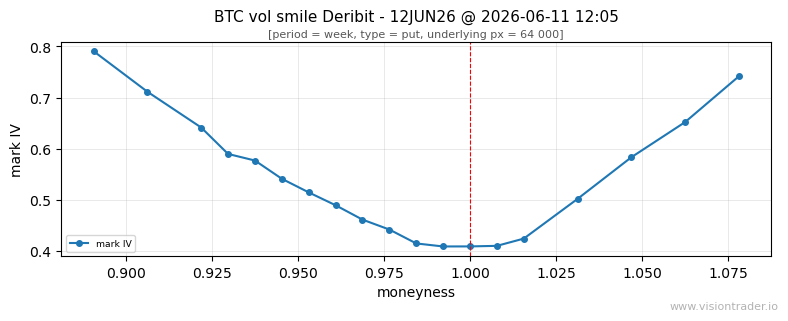
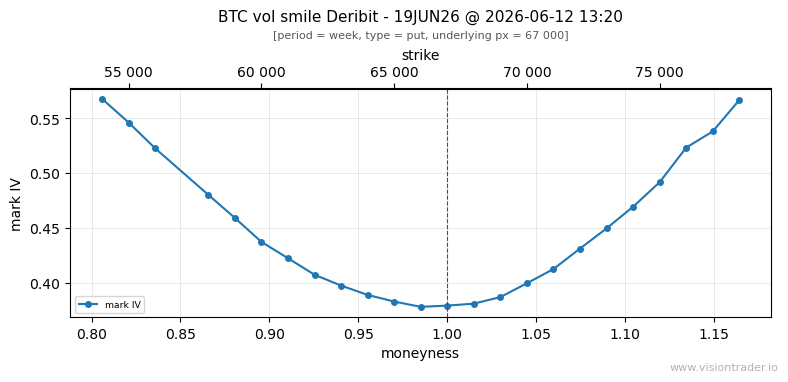
Update documentation

diff --git a/src/visiontrader/options.py b/src/visiontrader/options.py
@@ -230,6 +230,9 @@ class VisionOptionsClient:
         ``underlyingPrice``, then per-leg ``symbol``, ``strike``, ``moneyness``, ``type``,
         ``bid``, ``ask``, ``markPrice``, ``markIv``, ``oi``. ``moneyness`` is
         ``strike / underlyingPrice``.
+
+        Beta note: the backend query is not optimized yet; a single snapshot often
+        takes **1.5–2 minutes**. Ensure HTTP and proxy timeouts exceed that.
         """
         resolved_expiry, settlement_period = self._resolve_snapshot_expiry(
             exchange,
@@ -292,7 +295,12 @@ class VisionOptionsClient:
         *,
         resolution: str = '1m',
     ) -> list[OptionsSnapshot]:
-        """GET /options/snapshots."""
+        """GET /options/snapshots.
+
+        Beta note: a full trading day is not optimized yet and often takes
+        **3–5 minutes**. Use ``VisionOptionsClient(timeout=360)`` or higher and
+        matching proxy limits.
+        """
         body = self._http.get_json(
             '/options/snapshots',
             params={

diff --git a/README.md b/README.md
@@ -73,13 +73,13 @@ plot_smile(snap)
 **Filter the snapshot for a put smile:**
 
 1. Keep only `put` options.
-2. Recompute moneyness from a custom underlying price (`underlying_price=64000`).
-3. Trim the smile wings by moneyness (`min_moneyness=0.88`, `max_moneyness=1.09`).
+2. Recompute moneyness from a custom underlying price (`underlying_price=67000`).
+3. Trim the smile wings by moneyness (`min_moneyness=0.80`, `max_moneyness=1.17`).
 
 In [3]:
 
 ```python
-smile = vt.filter_for_smile(snap, 'put', underlying_price=64000, min_moneyness=0.88, max_moneyness=1.09)
+smile = vt.filter_for_smile(snap, 'put', underlying_price = 67000,  min_moneyness = 0.80, max_moneyness = 1.17 )
 plot_smile(smile)
 ```
 
@@ -306,6 +306,24 @@ plt.show()
 <small><em>Why trim the right wing (`moneyness &lt;= 1.13`)? Beyond that point the curve in the raw API data stops behaving like a market smile and flattens into a plateau. From strike 76500 onward (moneyness ≈ 1.14+) `markIv` is stuck at ~0.8505 while moneyness keeps increasing — seven strikes in a row, identical IV. On the call side those legs have no real market: `bid` is null, `ask` is the minimum tick (0.0001), `markPrice` is 0 or null. Puts at the same strikes still have a rising `markPrice`, but Deribit assigns the same capped `markIv` per strike. That pattern is typical of mark-model extrapolation / IV ceiling on illiquid deep OTM wings, not tradeable skew. Trimming keeps the chart focused on the liquid part of the board where IV actually varies with moneyness. For analysis of the full raw board, drop the filter and inspect `markPrice` and quotes alongside `markIv`.</em></small>
 
 
+## Performance (beta)
+
+The API is in beta: snapshot queries are **not yet optimized** on the server. Typical
+wall-clock times today:
+
+| Method | Typical duration |
+|--------|------------------|
+| `get_snapshot` | **1.5–2 minutes** |
+| `get_snapshots` (full day) | **3–5 minutes** |
+
+The SDK default HTTP timeout is **240 seconds (4 minutes)** — enough for a single
+snapshot. For a full-day `get_snapshots`, pass a higher timeout, e.g.
+`VisionOptionsClient(timeout=360)`.
+
+Any reverse proxy or load balancer in front of the API (nginx, Keenetic, cloud LB)
+must allow **at least** these durations; otherwise the client may receive
+**HTTP 504 Gateway Time-out** HTML instead of JSON while the backend is still working.
+
 ## API coverage (v0.1)
 
 | Method | HTTP |
@@ -329,6 +347,7 @@ Query parameter for the board instrument is **`instrument`**.
 ## Backend
 
 Requires a running [VT.AspNetApp](https://github.com/visiontrader) REST API and its gRPC data layer.
+See [Performance (beta)](#performance-beta) for current snapshot latency expectations.
 
 ## License
 